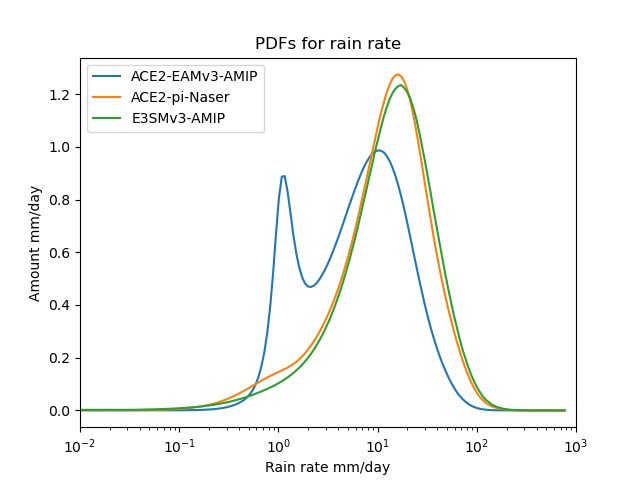
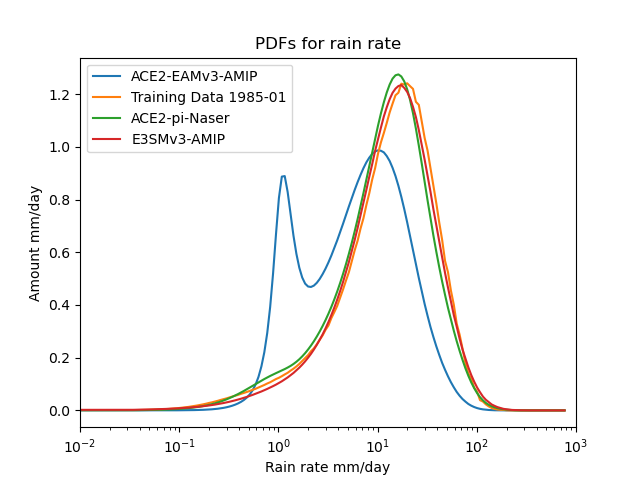
added training data to rainrate

Changed region(s): [[0.125, 0.1562, 0.7188, 0.875], [0.125, 0.1875, 0.4688, 0.3125], [0.7188, 0.7188, 0.875, 0.875]]

diff --git a/rainrate_amount_calculator/plot_rainrate.py b/rainrate_amount_calculator/plot_rainrate.py
@@ -9,9 +9,11 @@ def plot_rainrate_pdfs(
     file1,
     file2,
     file3,
+    file4,
     label1,
     label2,
     label3,
+    label4,
                     tropics_only=False,
                     land_only=False,
     ocean_only=False,
@@ -22,14 +24,17 @@ def plot_rainrate_pdfs(
     ds1 = xr.open_dataset(file1)
     ds2 = xr.open_dataset(file2)
     ds3 = xr.open_dataset(file3)
+    ds4 = xr.open_dataset(file4)
 
     hist1 = ds1["amount"]
     hist2 = ds2["amount"]
     hist3 = ds3["amount"]
+    hist4 = ds4["amount"]
 
     bin_edges1, bin_centers1 = ds1["edges"], ds1["centers"]
     bin_edges2, bin_centers2 = ds2["edges"], ds2["centers"]
     bin_edges3, bin_centers3 = ds3["edges"], ds3["centers"]
+    bin_edges4, bin_centers4 = ds4["edges"], ds4["centers"]
 
     suffix = ""
 
@@ -38,6 +43,7 @@ def plot_rainrate_pdfs(
         hist1 = hist1.where(np.abs(hist1.lat) <= max_lat, drop=True)
         hist2 = hist2.where(np.abs(hist2.lat) <= max_lat, drop=True)
         hist3 = hist3.where(np.abs(hist3.lat) <= max_lat, drop=True)
+        hist4 = hist4.where(np.abs(hist4.lat) <= max_lat, drop=True)
         suffix += "_tropics"
 
     land_mask_3d = None
@@ -55,6 +61,7 @@ def plot_rainrate_pdfs(
         hist1 = hist1.where(land_mask_3d)
         hist2 = hist2.where(land_mask_3d)
         hist3 = hist3.where(land_mask_3d)
+        hist4 = hist4.where(land_mask_3d)
 
     if specific_lat_lon:
         lat_spec=specific_lat_lon[0]
@@ -62,6 +69,7 @@ def plot_rainrate_pdfs(
         hist1 = hist1.sel(lat = lat_spec, lon = lon_spec, method='nearest',drop=False)
         hist2 = hist2.sel(lat = lat_spec, lon = lon_spec, method='nearest',drop=False)
         hist3 = hist3.sel(lat = lat_spec, lon = lon_spec, method='nearest',drop=False)
+        hist4 = hist4.sel(lat = lat_spec, lon = lon_spec, method='nearest',drop=False)
         suffix+=f'_lat{lat_spec}_lon{lon_spec}'
 
     if locate_anomaly:
@@ -110,11 +118,13 @@ def plot_rainrate_pdfs(
     weights1 = np.cos(np.deg2rad(hist1.lat))
     weights2 = np.cos(np.deg2rad(hist2.lat))
     weights3 = np.cos(np.deg2rad(hist3.lat))
+    weights4 = np.cos(np.deg2rad(hist4.lat))
 
     if not specific_lat_lon:
         hist1_mean = hist1.weighted(weights1).mean(("lon", "lat"))
         hist2_mean = hist2.weighted(weights2).mean(("lon", "lat"))
         hist3_mean = hist3.weighted(weights3).mean(("lon", "lat"))
+        hist4_mean = hist4.weighted(weights4).mean(("lon", "lat"))
     else:
         hist1_mean, hist2_mean, hist3_mean = hist1, hist2, hist3
 
@@ -122,6 +132,7 @@ def plot_rainrate_pdfs(
     plt.plot(bin_centers1, hist1_mean, label=label1)
     plt.plot(bin_centers2, hist2_mean, label=label2)
     plt.plot(bin_centers3, hist3_mean, label=label3)
+    plt.plot(bin_centers4, hist4_mean, label=label4)
     plt.xscale("log")
     plt.title("PDFs for rain rate")
     plt.xlabel("Rain rate mm/day")
@@ -134,13 +145,15 @@ def plot_rainrate_pdfs(
     ds1.close()
     ds2.close()
     ds3.close()
-
+    ds4.close()
 
 plot_rainrate_pdfs(
     "/pscratch/sd/w/wagmanbe/rainrate_compare/inf_test4/surface_precipitation_rate/pdf_6hrly_197101_200012.nc",
+    "/pscratch/sd/w/wagmanbe/rainrate_compare/inf_test4/surface_precipitation_rate/pdf_6hrly_198501_training.nc",
     "/pscratch/sd/w/wagmanbe/rainrate_compare/inf_test4/surface_precipitation_rate/pdf_6hrly_naser_picontrol.nc",
     "/pscratch/sd/w/wagmanbe/rainrate_compare/v3.LR.amip_0101/post/atm/180x360_aave/ts/6-hourly/5yr/pdf_6hrly_197601_198012.nc",
     "ACE2-EAMv3-AMIP",
+    "Training Data 1985-01",
     "ACE2-pi-Naser",
     "E3SMv3-AMIP",
     tropics_only=False,
